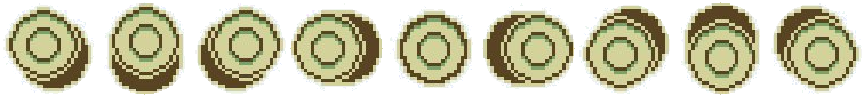
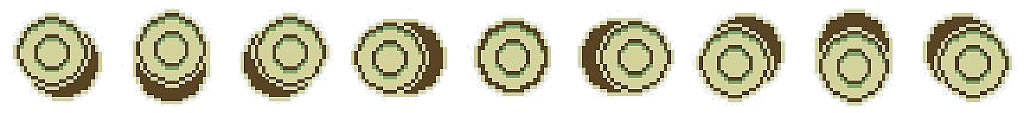
oystick

diff --git a/src/ui/touchControls.js b/src/ui/touchControls.js
@@ -131,8 +131,8 @@ export function showTouchControls(k, player) {
         if (dist > maxDist) {
             diff = diff.scale(maxDist / dist);
         }
-        // Micro-shift: Move slightly in the direction of the touch to feel responsive
-        handle.pos = k.vec2(joyX, joyY).add(diff.scale(0.25)); 
+        // Perfectly static: The handle no longer shifts physically.
+        handle.pos = k.vec2(joyX, joyY); 
 
         const deadzone = maxDist * 0.2;
         touchInput.up = diff.y < -deadzone;

diff --git a/public/joystick.tsx b/public/joystick.tsx
@@ -1,4 +1,4 @@
 <?xml version="1.0" encoding="UTF-8"?>
-<tileset version="1.10" tiledversion="1.11.2" name="joystick" tilewidth="16" tileheight="16" tilecount="324" columns="54">
- <image source="joystick.png" width="864" height="96"/>
+<tileset version="1.10" tiledversion="1.11.2" name="joystick" tilewidth="10" tileheight="10" tilecount="1122" columns="102">
+ <image source="joystick.png" width="1024" height="113"/>
 </tileset>
